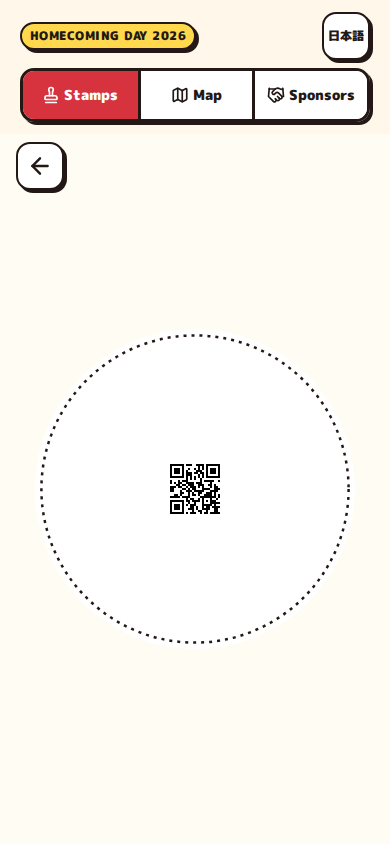
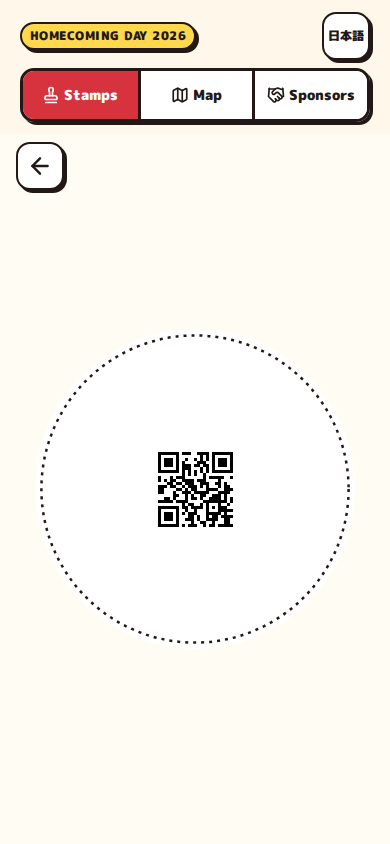
QRの表示サイズを75×75 CSSピクセルに戻す
Camera Module 3（標準レンズ）は約6.7cmより近くにピントを合わせられず、
スマホをピントの合う距離まで離すと読み取りの余裕が小さいため、QRを
75×75（25×25マスで1マス3px）に大きくする。QR寸法のテストを新しい
仕様値に合わせ、QR表示のスクリーンショットを撮り直した（spec 4-2、
Q-09）。

Changed region(s): [[0.4, 0.5237, 0.6154, 0.6469]]

diff --git a/web/test/screenshots/capture.spec.ts b/web/test/screenshots/capture.spec.ts
@@ -200,9 +200,10 @@ test("uses one QR from every empty slot and restores focus after closing", async
       return { back, circle, qr, qrCode, ring: ring ? { dash: ring.getAttribute("stroke-dasharray"), stroke: ring.getAttribute("stroke-width") } : undefined };
     });
     const path = await qr.locator("path").first().getAttribute("d");
-    expect(dimensions).toEqual({ height: 50, width: 50 });
-    expect(geometry.qrCode?.width).toBe(74);
-    expect(geometry.qrCode?.height).toBe(74);
+    // 仕様4-2: QR本体は75×75 CSSピクセル（1マス3px）、白い余白は12px。
+    expect(dimensions).toEqual({ height: 75, width: 75 });
+    expect(geometry.qrCode?.width).toBe(99);
+    expect(geometry.qrCode?.height).toBe(99);
     expect(Math.abs(((geometry.qr?.left ?? 0) + (geometry.qr?.width ?? 0) / 2) - ((geometry.circle?.left ?? 0) + (geometry.circle?.width ?? 0) / 2))).toBeLessThanOrEqual(0.5);
     expect(Math.abs(((geometry.qr?.top ?? 0) + (geometry.qr?.height ?? 0) / 2) - ((geometry.circle?.top ?? 0) + (geometry.circle?.height ?? 0) / 2))).toBeLessThanOrEqual(0.5);
     expect(geometry.ring).toEqual({ dash: "3 5", stroke: "2.5" });
@@ -317,8 +318,9 @@ test("supports Escape and keeps the enlarged QR circle in view in every supporte
     expect(metrics.circle?.bottom).toBeLessThanOrEqual(metrics.viewportHeight);
     expect(metrics.circle?.top).toBeGreaterThanOrEqual(metrics.header?.bottom ?? 0);
     expect(metrics.back?.top).toBeGreaterThanOrEqual((metrics.header?.bottom ?? 0) + 8);
-    expect(metrics.qr?.width).toBe(50);
-    expect(metrics.qr?.height).toBe(50);
+    // 仕様4-2: どの向き・画面サイズでもQR本体は75×75 CSSピクセルのまま。
+    expect(metrics.qr?.width).toBe(75);
+    expect(metrics.qr?.height).toBe(75);
     expect(metrics.back?.width).toBeGreaterThanOrEqual(48);
     expect(metrics.back?.height).toBeGreaterThanOrEqual(48);
     await page.keyboard.press("Escape");

diff --git a/web/src/components/QrDialog.tsx b/web/src/components/QrDialog.tsx
@@ -161,7 +161,7 @@ export function QrDialog({ copy, headerHeight, isClosing, onCloseRequest, onClos
       <div aria-hidden="true" className={styles.paper} data-qr-paper="true" />
       <div className={styles.stampCircle} data-qr-stamp-circle="true">
         <StampSlotDottedCircle />
-        <div className={styles.qrCode} data-qr-code-container="true"><QRCodeSVG aria-label="Stamp QR code" includeMargin={false} level="M" size={50} value={token} /></div>
+        <div className={styles.qrCode} data-qr-code-container="true"><QRCodeSVG aria-label="Stamp QR code" includeMargin={false} level="M" size={75} value={token} /></div>
       </div>
       <IconButton className={styles.back} disabled={isClosing} label={copy.backToBook} ref={backRef} type="button" onClick={onCloseRequest}><ArrowLeft aria-hidden="true" size={26} strokeWidth={2.25} /></IconButton>
     </main>

diff --git a/web/src/components/QrDialog.module.css b/web/src/components/QrDialog.module.css
@@ -43,10 +43,11 @@
   transition: opacity var(--duration-qr-reveal) ease-out;
 }
 
+/* 仕様4-2: 25×25マスのQRを75×75 CSSピクセル（1マス3px）で描き、境界をにじませない。 */
 .qrCode svg {
   display: block;
-  width: 50px;
-  height: 50px;
+  width: 75px;
+  height: 75px;
   image-rendering: pixelated;
 }
 
